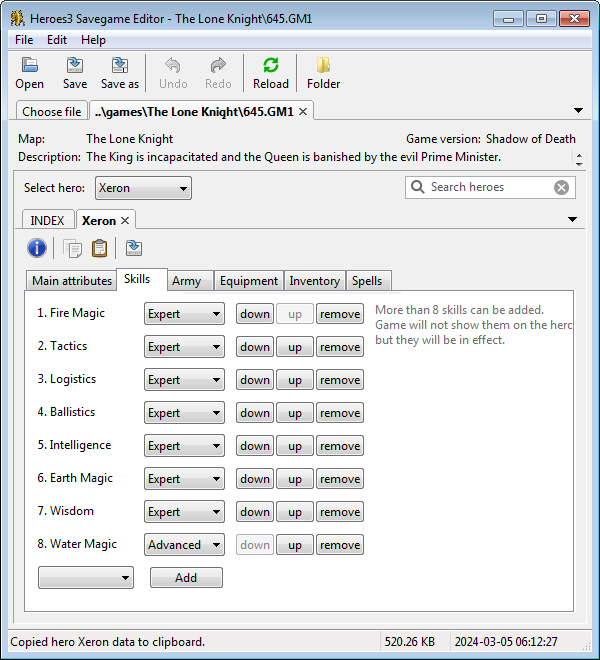
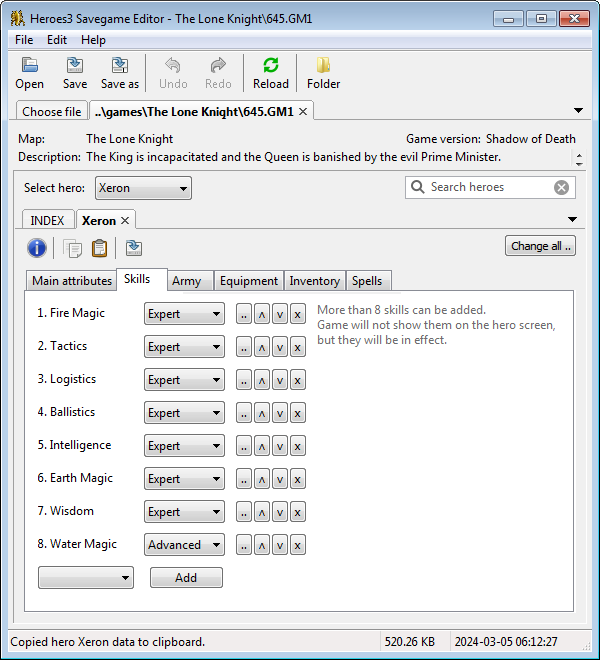
Update texts and links and screenshot to v3.2.

Changed region(s): [[0.39, 0.4545, 0.96, 0.8485], [0.84, 0.3636, 0.96, 0.3939]]

diff --git a/changelog.html b/changelog.html
@@ -34,9 +34,9 @@
           <a href="https://github.com/suurjaak/h3sed">View the Project on GitHub <small>suurjaak/h3sed</small></a>
 
           <ul>
-            <li><a href="https://erki.lap.ee/downloads/h3sed/h3sed_3.1_setup.exe" title="Setup for Windows">Download <strong>Setup</strong></a></li>
-            <li><a href="https://erki.lap.ee/downloads/h3sed/h3sed_3.1.exe" title="Stand-alone program for Windows">Download <strong>Executable</strong></a></li>
-            <li><a href="https://erki.lap.ee/downloads/h3sed/h3sed_3.1-src.zip" title="Source distribution">Download <strong>Source</strong></a></li>
+            <li><a href="https://erki.lap.ee/downloads/h3sed/h3sed_3.2_setup.exe" title="Setup for Windows">Download <strong>Setup</strong></a></li>
+            <li><a href="https://erki.lap.ee/downloads/h3sed/h3sed_3.2.exe" title="Stand-alone program for Windows">Download <strong>Executable</strong></a></li>
+            <li><a href="https://erki.lap.ee/downloads/h3sed/h3sed_3.2-src.zip" title="Source distribution">Download <strong>Source</strong></a></li>
           </ul>
         </p>
 
@@ -44,6 +44,29 @@
       <section>
 
         <h2>Changelog</h2>
+
+        <h4>v3.2, 2025-10-09:</h4>
+        <ul>
+          <li>add button with mass change options menu to hero property tabs</li>
+          <li>add individual row options menu to hero skills, army, equipment, and inventory</li>
+          <li>add option to refill hero movement points</li>
+          <li>add option to refill hero spell points</li>
+          <li>add option to assemble and disassemble combination artifacts</li>
+          <li>add info text to inventory artifacts with hero main stats bonuses</li>
+          <li>add info text to spells on missing spellbook</li>
+          <li>add info text to combination artifacts in selection lists (issue #20)</li>
+          <li>allow changing hero primary attribute full byte range and display info on in-game value,
+              fix value loaded from savefile being auto-forced to a maximum of 127 (issue #21)</li>
+          <li>fix opening savefiles from Armageddon's Blade (issue #18)</li>
+          <li>fix opening savefiles from GOG Heroes 3 Complete (issue #19)</li>
+          <li>fix not saving Ballista in versions other than Horn of the Abyss (issue #20)</li>
+          <li>fix spell power and knowledge minimum valid value being 0 not 1 as in game</li>
+          <li>fix artifacts not being sorted by name in all lists</li>
+          <li>fix stats bonuses for Dragon Wing Tabard and Dragon Scale Shield</li>
+          <li>fix not updating equipment artifact stats bonus tooltip on changing artifact</li>
+          <li>fix hero YAML data being invalid if containing spell scrolls</li>
+        </ul>
+        <br />
 
         <h4>v3.1, 2025-09-01:</h4>
         <ul>

diff --git a/downloads.html b/downloads.html
@@ -34,9 +34,9 @@
           <a href="https://github.com/suurjaak/h3sed">View the Project on GitHub <small>suurjaak/h3sed</small></a>
 
           <ul>
-            <li><a href="https://erki.lap.ee/downloads/h3sed/h3sed_3.1_setup.exe" title="Setup for Windows">Download <strong>Setup</strong></a></li>
-            <li><a href="https://erki.lap.ee/downloads/h3sed/h3sed_3.1.exe" title="Stand-alone program for Windows">Download <strong>Executable</strong></a></li>
-            <li><a href="https://erki.lap.ee/downloads/h3sed/h3sed_3.1-src.zip" title="Source distribution">Download <strong>Source</strong></a></li>
+            <li><a href="https://erki.lap.ee/downloads/h3sed/h3sed_3.2_setup.exe" title="Setup for Windows">Download <strong>Setup</strong></a></li>
+            <li><a href="https://erki.lap.ee/downloads/h3sed/h3sed_3.2.exe" title="Stand-alone program for Windows">Download <strong>Executable</strong></a></li>
+            <li><a href="https://erki.lap.ee/downloads/h3sed/h3sed_3.2-src.zip" title="Source distribution">Download <strong>Source</strong></a></li>
           </ul>
         </p>
 

diff --git a/index.html b/index.html
@@ -43,9 +43,9 @@
           <a href="https://github.com/suurjaak/h3sed">View the Project on GitHub <small>suurjaak/h3sed</small></a>
 
           <ul>
-            <li><a href="https://erki.lap.ee/downloads/h3sed/h3sed_3.1_setup.exe" title="Setup for Windows">Download <strong>Setup</strong></a></li>
-            <li><a href="https://erki.lap.ee/downloads/h3sed/h3sed_3.1.exe" title="Stand-alone program for Windows">Download <strong>Executable</strong></a></li>
-            <li><a href="https://erki.lap.ee/downloads/h3sed/h3sed_3.1-src.zip" title="Source distribution">Download <strong>Source</strong></a></li>
+            <li><a href="https://erki.lap.ee/downloads/h3sed/h3sed_3.2_setup.exe" title="Setup for Windows">Download <strong>Setup</strong></a></li>
+            <li><a href="https://erki.lap.ee/downloads/h3sed/h3sed_3.2.exe" title="Stand-alone program for Windows">Download <strong>Executable</strong></a></li>
+            <li><a href="https://erki.lap.ee/downloads/h3sed/h3sed_3.2-src.zip" title="Source distribution">Download <strong>Source</strong></a></li>
           </ul>
         </p>
 
